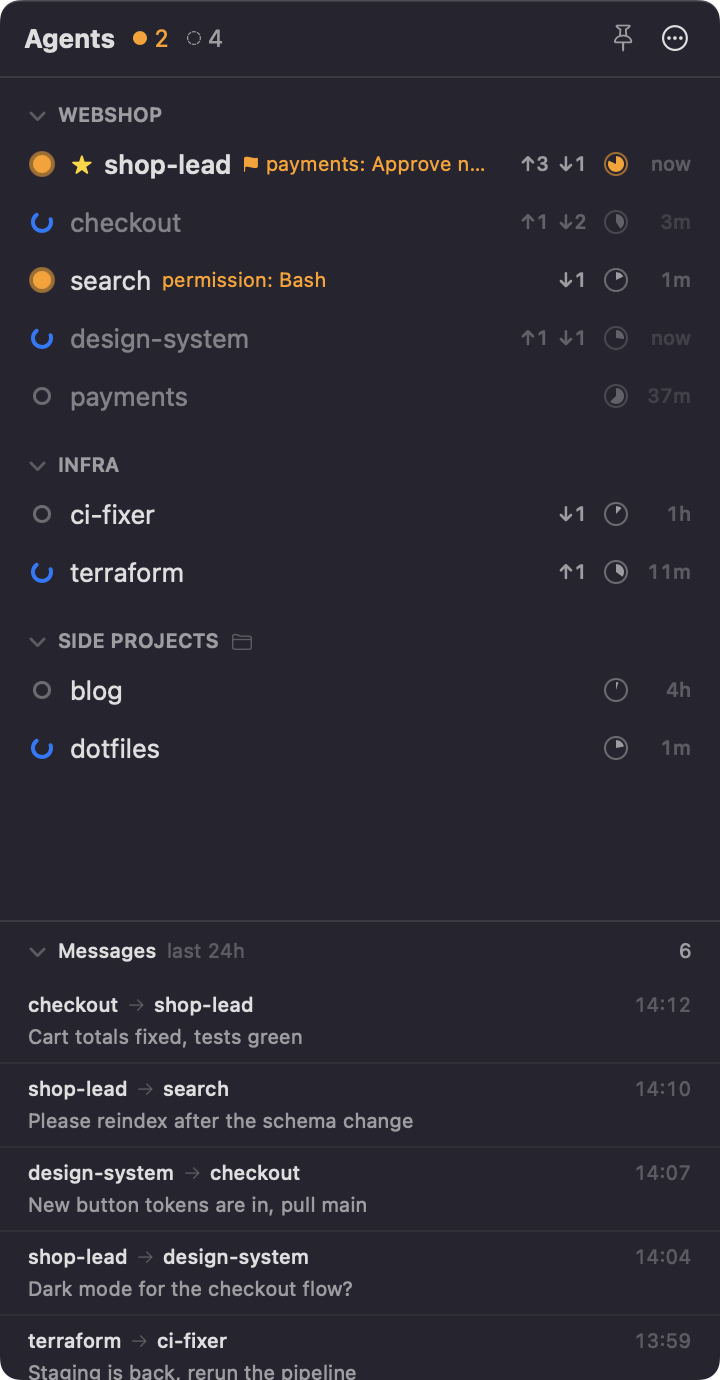
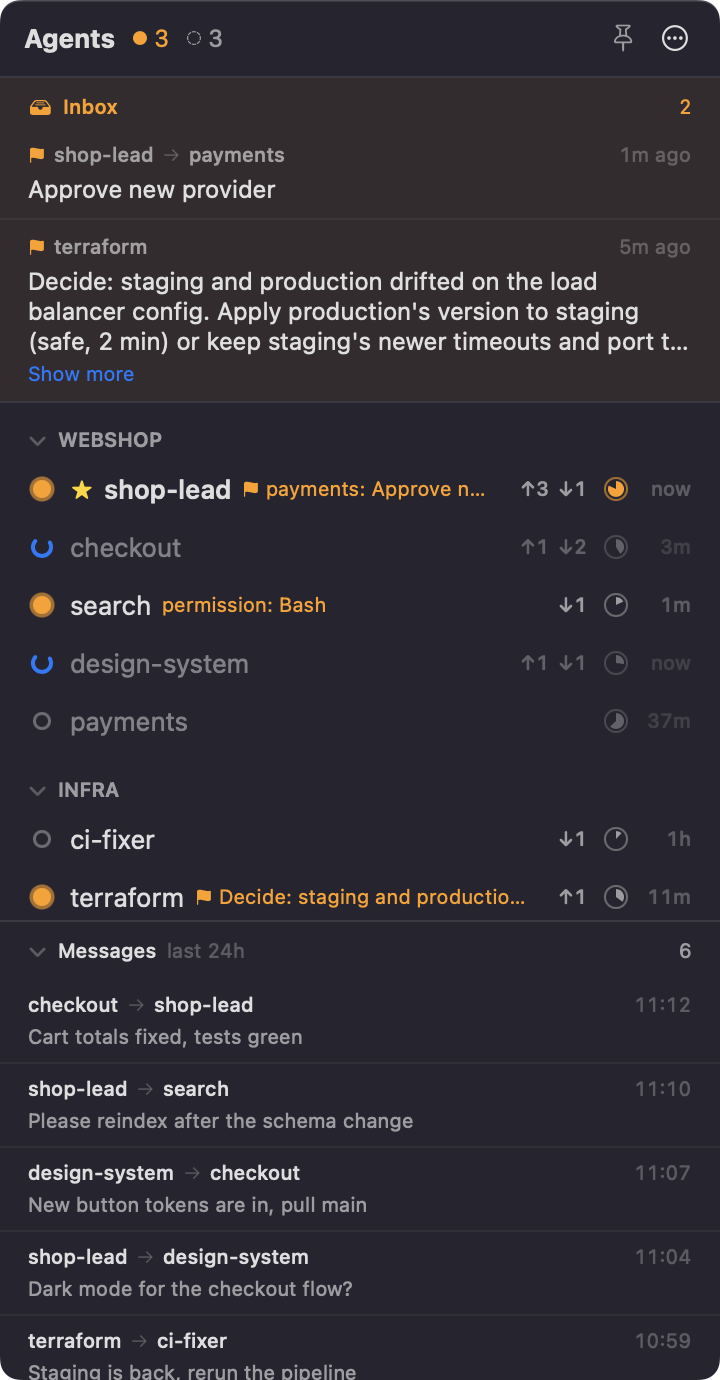
Collect open flags in an inbox
Open flags now also appear in an inbox at the top of the panel, newest
first, showing up to three lines of each message with "Show more" when
it's cut off. Clicking an item opens the session that raised it; ✕ on
hover dismisses it. The inbox hides when there are no flags and scrolls
when many pile up.

diff --git a/Sources/MaitreDAgent/Views.swift b/Sources/MaitreDAgent/Views.swift
@@ -10,6 +10,10 @@ struct PanelView: View {
                 .padding(.horizontal, 12)
                 .frame(height: 38)
             Divider()
+            if !store.inbox.isEmpty {
+                Inbox()
+                Divider()
+            }
             if store.agents.isEmpty && store.config.customGroups.isEmpty {
                 VStack(spacing: 6) {
                     Image(systemName: "moon.zzz").font(.title2).foregroundStyle(.tertiary)
@@ -130,6 +134,128 @@ private struct NoticeBanner: View {
         .padding(.horizontal, 12)
         .padding(.vertical, 6)
         .background(Color.yellow.opacity(0.08))
+    }
+}
+
+// MARK: - Inbox
+
+/// Open flags, newest first, above the agent list.
+private struct Inbox: View {
+    @EnvironmentObject private var store: Store
+
+    var body: some View {
+        let items = store.inbox
+        VStack(alignment: .leading, spacing: 0) {
+            HStack(spacing: 5) {
+                Image(systemName: "tray.full.fill").font(.system(size: 9))
+                Text(store.copy.inboxTitle).fontWeight(.semibold)
+                Spacer()
+                Text("\(items.count)")
+            }
+            .font(.caption.monospacedDigit())
+            .foregroundStyle(.orange)
+            .padding(.horizontal, 14)
+            .padding(.top, 8)
+            .padding(.bottom, 4)
+
+            ScrollView {
+                VStack(alignment: .leading, spacing: 0) {
+                    ForEach(items, id: \.flag.id) { item in
+                        InboxItem(flag: item.flag, agent: item.agent)
+                        if item.flag.id != items.last?.flag.id { Divider().opacity(0.5) }
+                    }
+                }
+            }
+            .frame(maxHeight: 220)
+            .fixedSize(horizontal: false, vertical: true)
+        }
+        .background(Color.orange.opacity(0.06))
+    }
+}
+
+private struct InboxItem: View {
+    @EnvironmentObject private var store: Store
+    let flag: Flag
+    let agent: Agent
+    @State private var expanded = false
+    @State private var truncated = false
+    @State private var hovering = false
+
+    var body: some View {
+        VStack(alignment: .leading, spacing: 3) {
+            HStack(spacing: 4) {
+                Image(systemName: "flag.fill").font(.system(size: 8)).foregroundStyle(.orange)
+                Text(flag.raisedByName).fontWeight(.medium)
+                if !flag.isSelf {
+                    Image(systemName: "arrow.right").font(.system(size: 8)).foregroundStyle(.tertiary)
+                    Text(flag.subjectName).fontWeight(.medium)
+                }
+                Spacer()
+                if hovering {
+                    Button { store.dismissFlag(flag) } label: { Image(systemName: "xmark.circle.fill") }
+                        .buttonStyle(.borderless)
+                        .help(store.copy.dismissOne)
+                } else {
+                    Text(ago(flag.createdAt)).foregroundStyle(.tertiary)
+                }
+            }
+            .font(.caption.monospacedDigit())
+            .foregroundStyle(.secondary)
+
+            ClampedText(text: flag.message, lines: 3, expanded: expanded, truncated: $truncated)
+                .font(.callout)
+
+            if truncated || expanded {
+                Button(expanded ? store.copy.showLess : store.copy.showMore) {
+                    withAnimation(.easeOut(duration: 0.15)) { expanded.toggle() }
+                }
+                .buttonStyle(.plain)
+                .font(.caption)
+                .foregroundStyle(Color.accentColor)
+            }
+        }
+        .padding(.horizontal, 14)
+        .padding(.vertical, 7)
+        .contentShape(Rectangle())
+        .background(Color.primary.opacity(hovering ? 0.05 : 0))
+        .onHover { hovering = $0 }
+        .onTapGesture { store.focus(agent) }
+        .help(store.copy.goTo(agent.name))
+    }
+}
+
+/// Text limited to `lines`, reporting whether the limit actually cut anything off.
+private struct ClampedText: View {
+    let text: String
+    let lines: Int
+    let expanded: Bool
+    @Binding var truncated: Bool
+
+    var body: some View {
+        Text(text)
+            .lineLimit(expanded ? nil : lines)
+            .fixedSize(horizontal: false, vertical: true)
+            .frame(maxWidth: .infinity, alignment: .leading)
+            .background(
+                GeometryReader { shown in
+                    Text(text)
+                        .fixedSize(horizontal: false, vertical: true)
+                        .frame(width: shown.size.width, alignment: .leading)
+                        .hidden()
+                        .background(GeometryReader { full in
+                            Color.clear
+                                .onAppear { measure(full: full.size.height, shown: shown.size.height) }
+                                .onChange(of: full.size.height) { _, height in measure(full: height, shown: shown.size.height) }
+                                .onChange(of: shown.size.height) { _, height in measure(full: full.size.height, shown: height) }
+                        })
+                }
+            )
+    }
+
+    private func measure(full: CGFloat, shown: CGFloat) {
+        guard !expanded else { return }
+        let cut = full > shown + 1
+        if cut != truncated { truncated = cut }
     }
 }
 

diff --git a/Sources/MaitreDAgent/Store.swift b/Sources/MaitreDAgent/Store.swift
@@ -405,6 +405,16 @@ final class Store: ObservableObject {
         agent.flags.forEach { Flags.remove($0.id) }
     }
 
+    func dismissFlag(_ flag: Flag) {
+        Flags.remove(flag.id)
+    }
+
+    /// All open flags with the agent whose row shows them, newest first.
+    var inbox: [(flag: Flag, agent: Agent)] {
+        agents.flatMap { agent in agent.flags.map { (flag: $0, agent: agent) } }
+            .sorted { $0.flag.createdAt > $1.flag.createdAt }
+    }
+
     func focus(_ agent: Agent) {
         SessionFocus.focus(agent, deepLink: config.deepLink)
     }
@@ -472,7 +482,12 @@ extension Store {
             agent("webshop", "search", .needsMe, 2, 0.18, .permission(tool: "Bash")),
             agent("webshop", "design-system", .working, 0, 0.27),
             agent("webshop", "payments", .idle, 38, 0.63),
-            agent("infra", "terraform", .working, 12, 0.35),
+            agent("infra", "terraform", .needsMe, 12, 0.35, flags: [Flag(
+                id: "demo-2", raisedBySession: "terraform", raisedByName: "terraform", subjectSession: "terraform",
+                subjectName: "terraform",
+                message: "Decide: staging and production drifted on the load balancer config. Apply production's version to staging (safe, 2 min) or keep staging's newer timeouts and port them to production (needs a maintenance window)?",
+                createdAt: Date().addingTimeInterval(-300)
+            )]),
             agent("infra", "ci-fixer", .idle, 95, 0.12),
             agent("blog", "blog", .idle, 300, 0.05),
             agent("dotfiles", "dotfiles", .working, 2, 0.22),

diff --git a/Sources/MaitreDAgent/Copy.swift b/Sources/MaitreDAgent/Copy.swift
@@ -94,6 +94,12 @@ struct Copy {
         return flag.message
     }
 
+    var inboxTitle: String { pretentious ? "Correspondence" : "Inbox" }
+    var showMore: String { pretentious ? "Read on" : "Show more" }
+    var showLess: String { pretentious ? "Fold the note" : "Show less" }
+    func goTo(_ name: String) -> String { pretentious ? "Attend to \(name)" : "Go to \(name)" }
+    var dismissOne: String { pretentious ? "Nod Politely" : "Dismiss" }
+
     func dismissFlags(_ count: Int) -> String {
         if pretentious { return "Nod Politely" }
         return count == 1 ? "Dismiss Flag" : "Dismiss \(count) Flags"

diff --git a/README.md b/README.md
@@ -73,7 +73,8 @@ Agents can ask for your attention even when they aren't blocked on a prompt. The
 ```
 
 - The command works out which session ran it, so agents never need their session ID. `--agent` takes a session name, the same names SendMessage uses.
-- A flag shows on the row of the agent that raised it, with 🚩 and its message. Hover for the full text and who it's about. You also get a notification.
+- Open flags collect in an **inbox** at the top of the panel, newest first, with up to three lines of each message ("Show more" for the rest). Click one to jump to the agent that raised it; ✕ on hover dismisses it.
+- A flag also shows on the row of the agent that raised it, with 🚩 and its message, and you get a notification.
 - A flag clears when you next prompt the agent that raised it or the one it's about (messages from other agents don't count), when you dismiss it (✕ on hover or right-click), or when the agent runs `unflag`.
 - The installer allows `~/.maitre-d-agent/bin/maitre-d` in your Claude Code permissions so flagging never itself triggers a permission prompt, and puts the skill in `~/.claude/skills/maitre-d/`. Uninstalling removes both.
 
